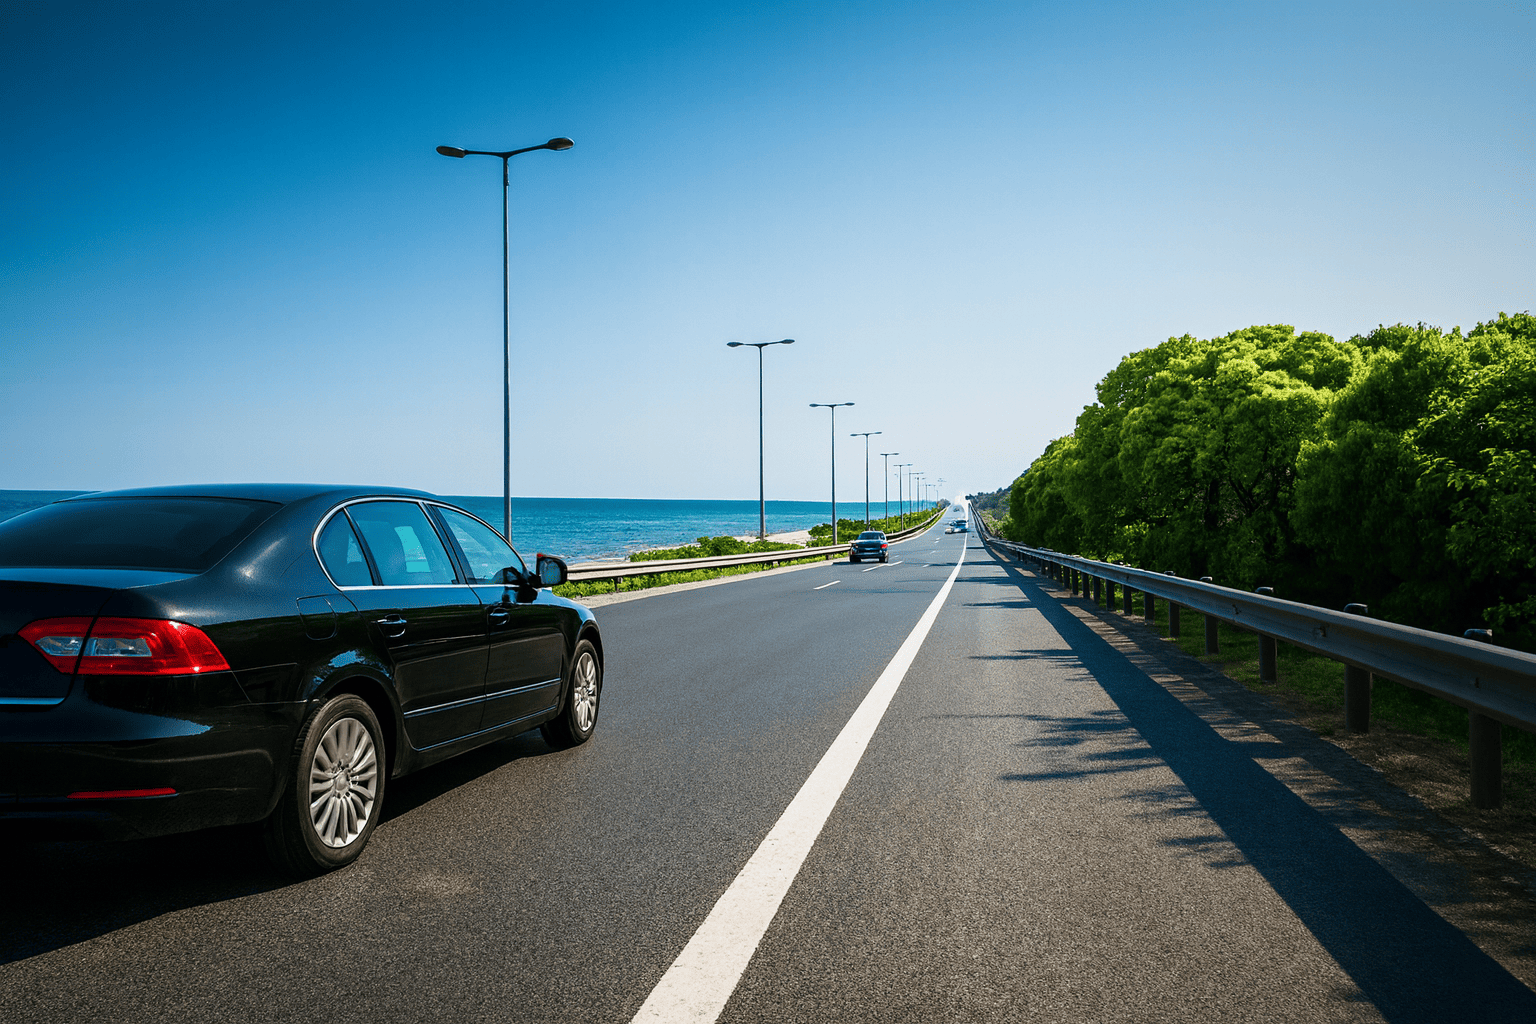
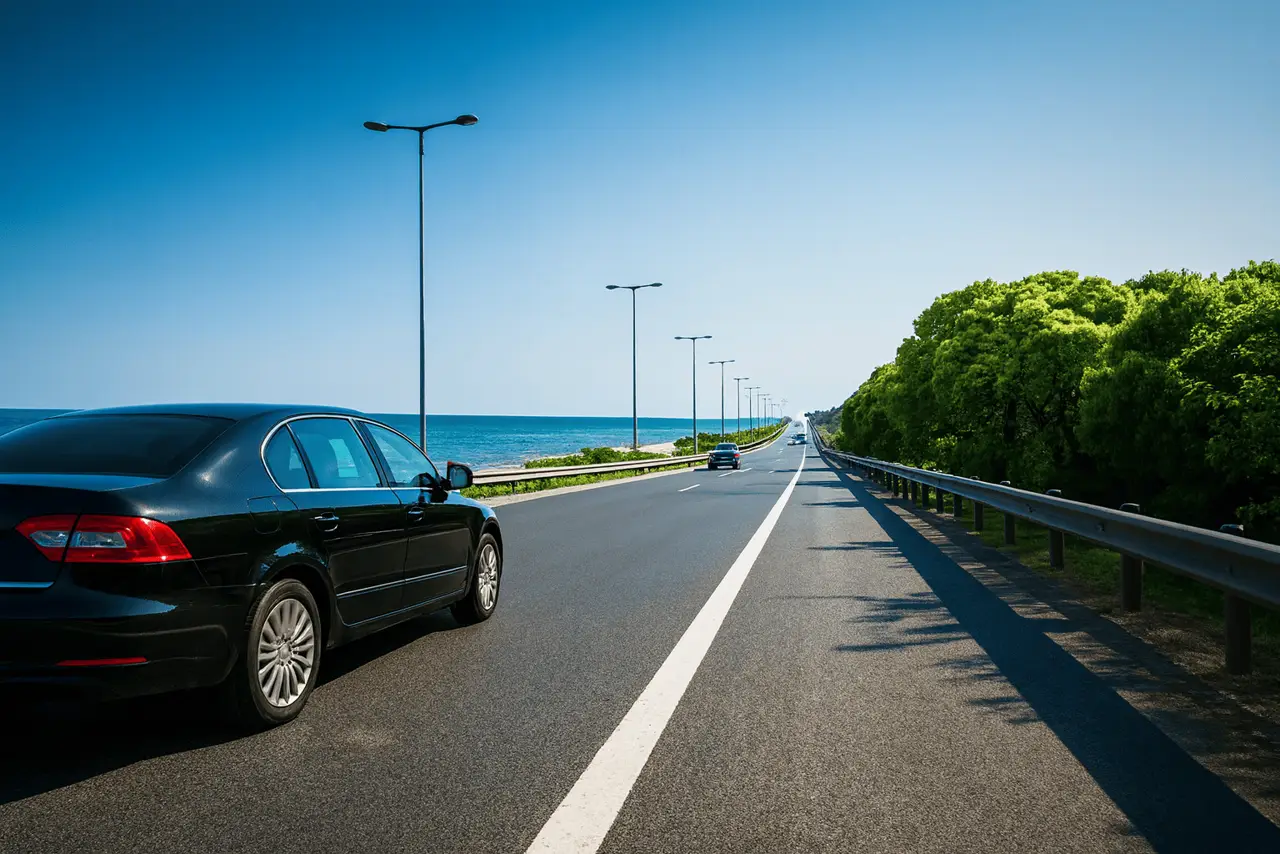
perf(images): recomprimir assets webp/png y lazy-load bajo el fold (home 3.4MB->1.7MB)

Changed region(s): [[0.9375, 0.3044, 1.0, 0.3958], [0.5312, 0.4871, 0.625, 0.548], [0.75, 0.3349, 0.8438, 0.3653]]

diff --git a/src/components/brand-slider/brand-slider.component.ts b/src/components/brand-slider/brand-slider.component.ts
@@ -19,13 +19,13 @@ import { MotionDirective } from '../../app/core/motion/motion.directive';
           @for(brand of brands(); track brand.name) {
             <div class="relative flex flex-col items-center justify-center w-24 h-10 md:w-32 md:h-14 group/brand cursor-pointer">
                <!-- Imagen Azul (Base) -->
-               <img [src]="'assets/imgs/slider/Azul/' + brand.file" 
+               <img [src]="'assets/imgs/slider/Azul/' + brand.file" loading="lazy" decoding="async" 
                     [alt]="brand.name"
                     class="absolute inset-0 w-full h-full object-contain transition-opacity duration-300 opacity-100 group-hover/brand:opacity-0"
                     [class]="brand.className || ''">
                
                <!-- Imagen Color (Hover) -->
-               <img [src]="'assets/imgs/slider/Color/' + brand.file" 
+               <img [src]="'assets/imgs/slider/Color/' + brand.file" loading="lazy" decoding="async" 
                     [alt]="brand.name + ' Color'"
                     class="absolute inset-0 w-full h-full object-contain transition-opacity duration-300 opacity-0 group-hover/brand:opacity-100"
                     [class]="brand.className || ''">
@@ -35,11 +35,11 @@ import { MotionDirective } from '../../app/core/motion/motion.directive';
           <!-- Set 2 (Duplicado para loop infinito) -->
           @for(brand of brands(); track brand.name + '_dup') {
             <div class="relative flex flex-col items-center justify-center w-24 h-10 md:w-32 md:h-14 group/brand cursor-pointer">
-               <img [src]="'assets/imgs/slider/Azul/' + brand.file" 
+               <img [src]="'assets/imgs/slider/Azul/' + brand.file" loading="lazy" decoding="async" 
                     [alt]="brand.name"
                     class="absolute inset-0 w-full h-full object-contain transition-opacity duration-300 opacity-100 group-hover/brand:opacity-0"
                     [class]="brand.className || ''">
-               <img [src]="'assets/imgs/slider/Color/' + brand.file" 
+               <img [src]="'assets/imgs/slider/Color/' + brand.file" loading="lazy" decoding="async" 
                     [alt]="brand.name + ' Color'"
                     class="absolute inset-0 w-full h-full object-contain transition-opacity duration-300 opacity-0 group-hover/brand:opacity-100"
                     [class]="brand.className || ''">
@@ -49,11 +49,11 @@ import { MotionDirective } from '../../app/core/motion/motion.directive';
           <!-- Set 3 (Triplicado para pantallas anchas) -->
           @for(brand of brands(); track brand.name + '_tri') {
             <div class="relative flex flex-col items-center justify-center w-24 h-10 md:w-32 md:h-14 group/brand cursor-pointer">
-               <img [src]="'assets/imgs/slider/Azul/' + brand.file" 
+               <img [src]="'assets/imgs/slider/Azul/' + brand.file" loading="lazy" decoding="async" 
                     [alt]="brand.name"
                     class="absolute inset-0 w-full h-full object-contain transition-opacity duration-300 opacity-100 group-hover/brand:opacity-0"
                     [class]="brand.className || ''">
-               <img [src]="'assets/imgs/slider/Color/' + brand.file" 
+               <img [src]="'assets/imgs/slider/Color/' + brand.file" loading="lazy" decoding="async" 
                     [alt]="brand.name + ' Color'"
                     class="absolute inset-0 w-full h-full object-contain transition-opacity duration-300 opacity-0 group-hover/brand:opacity-100"
                     [class]="brand.className || ''">
@@ -63,11 +63,11 @@ import { MotionDirective } from '../../app/core/motion/motion.directive';
            <!-- Set 4 (Cuadruplicado para pantallas ultra-anchas) -->
           @for(brand of brands(); track brand.name + '_quad') {
             <div class="relative flex flex-col items-center justify-center w-24 h-10 md:w-32 md:h-14 group/brand cursor-pointer">
-               <img [src]="'assets/imgs/slider/Azul/' + brand.file" 
+               <img [src]="'assets/imgs/slider/Azul/' + brand.file" loading="lazy" decoding="async" 
                     [alt]="brand.name"
                     class="absolute inset-0 w-full h-full object-contain transition-opacity duration-300 opacity-100 group-hover/brand:opacity-0"
                     [class]="brand.className || ''">
-               <img [src]="'assets/imgs/slider/Color/' + brand.file" 
+               <img [src]="'assets/imgs/slider/Color/' + brand.file" loading="lazy" decoding="async" 
                     [alt]="brand.name + ' Color'"
                     class="absolute inset-0 w-full h-full object-contain transition-opacity duration-300 opacity-0 group-hover/brand:opacity-100"
                     [class]="brand.className || ''">

diff --git a/src/components/vehicles4/vehicles4.component.html b/src/components/vehicles4/vehicles4.component.html
@@ -58,7 +58,7 @@
 
                     <!-- Full Background Image -->
                     <div class="absolute inset-0 w-full h-full bg-gray-200">
-                        <img [src]="service.imageUrl"
+                        <img [src]="service.imageUrl" loading="lazy" decoding="async"
                             [srcset]="service.imageUrl + ' 1x, ' + service.imageUrl.replace('low.png', '.png') + ' 2x'"
                             [alt]="service.title"
                             class="object-cover w-full h-full transition-transform duration-[2s] ease-out group-hover/card:scale-110">
@@ -223,7 +223,7 @@
                     class="group flex items-center gap-4 p-3 bg-slate-50 hover:bg-[#002B5B] rounded-2xl border border-slate-100 cursor-pointer transition-all duration-300 hover:scale-[1.02] hover:shadow-xl hover:shadow-blue-900/10">
                     <div
                         class="w-16 h-16 rounded-xl overflow-hidden bg-white flex-shrink-0 border border-slate-200 group-hover:border-transparent transition-colors">
-                        <img [src]="suggested.image_url" alt="" class="w-full h-full object-cover">
+                        <img [src]="suggested.image_url" alt="" loading="lazy" decoding="async" class="w-full h-full object-cover">
                     </div>
                     <div class="flex-1">
                         <h4

diff --git a/src/components/vehicles/vehicles.component.html b/src/components/vehicles/vehicles.component.html
@@ -47,7 +47,7 @@
 
           <!-- Image Area -->
           <div class="relative h-56 sm:h-56 md:h-40 w-full overflow-hidden bg-gray-50">
-            <img [src]="service.imageUrl" [alt]="service.title" class="object-cover object-bottom w-full h-full">
+            <img [src]="service.imageUrl" [alt]="service.title" loading="lazy" decoding="async" class="object-cover object-bottom w-full h-full">
             <!-- Overlay gradient -->
             <div
               class="absolute inset-0 bg-gradient-to-t to-transparent opacity-0 group-hover/card:opacity-100 transition-opacity duration-500"
@@ -249,7 +249,7 @@
           class="group flex items-center gap-4 p-3 bg-slate-50 hover:bg-[#002B5B] rounded-2xl border border-slate-100 cursor-pointer transition-all duration-300 hover:scale-[1.02] hover:shadow-xl hover:shadow-blue-900/10">
           <div
             class="w-16 h-16 rounded-xl overflow-hidden bg-white flex-shrink-0 border border-slate-200 group-hover:border-transparent transition-colors">
-            <img [src]="suggested.image_url" alt="" class="w-full h-full object-cover">
+            <img [src]="suggested.image_url" alt="" loading="lazy" decoding="async" class="w-full h-full object-cover">
           </div>
           <div class="flex-1">
             <h4

diff --git a/src/components/contact-promo/contact-promo.component.ts b/src/components/contact-promo/contact-promo.component.ts
@@ -224,7 +224,7 @@ export class CalendarComponent {
                   </div>
               </div>
               <div class="hidden lg:block w-7/12 h-[500px] relative rounded-[32px] overflow-hidden shadow-2xl group border border-white/5 animate-enter delay-200 order-1 lg:order-2">
-                  <img src="assets/imgs/servicios/form/fondo.webp" class="w-full h-full object-cover transition-transform duration-[2s] group-hover:scale-105 opacity-80 group-hover:opacity-100">
+                  <img src="assets/imgs/servicios/form/fondo.webp" loading="lazy" decoding="async" class="w-full h-full object-cover transition-transform duration-[2s] group-hover:scale-105 opacity-80 group-hover:opacity-100">
                   <div class="absolute inset-0 bg-gradient-to-t from-[#050914] via-transparent to-transparent opacity-90"></div>
                   <div class="absolute top-8 right-8 bg-black/50 backdrop-blur-md border border-[#FF6F61]/30 text-[#FF6F61] px-4 py-1.5 rounded-full font-bold tracking-wider text-[10px] shadow-[0_0_15px_rgba(255,111,97,0.2)]">MARCAS PREMIUM</div>
               </div>

diff --git a/src/components/hero/hero.component.html b/src/components/hero/hero.component.html
@@ -1,9 +1,9 @@
 <section #heroSection class="relative w-full overflow-hidden h-[86vh] min-h-[560px] flex items-center">
   <!-- Background image with GSAP parallax -->
   <div #heroBg class="absolute inset-x-0 -top-[12%] -bottom-[12%] z-0 will-change-transform">
-    <img src="/assets/imgs/banners/banner1.webp" alt="Ocean Drive Car Rental — flota premium en Cartagena de Indias"
+    <img src="/assets/imgs/banners/banner1.webp" fetchpriority="high" decoding="async" alt="Ocean Drive Car Rental — flota premium en Cartagena de Indias"
          class="hidden md:block w-full h-full object-cover" />
-    <img src="assets/imgs/banners/banner1mb.webp" alt="Ocean Drive Car Rental — flota premium en Cartagena de Indias"
+    <img src="assets/imgs/banners/banner1mb.webp" fetchpriority="high" decoding="async" alt="Ocean Drive Car Rental — flota premium en Cartagena de Indias"
          class="block md:hidden w-full h-full object-cover" />
   </div>
 

diff --git a/src/components/features/features.component.html b/src/components/features/features.component.html
@@ -15,7 +15,7 @@
                     <div
                         class="absolute inset-0 bg-gradient-to-r from-[#002B5B] via-[#B3E5FF] to-[#FF6F61] rounded-2xl opacity-0 group-hover/image:opacity-20 blur-xl transition-opacity duration-700">
                     </div>
-                    <img src="assets/imgs/features/fondo.webp" alt="Premium Silver Car"
+                    <img src="assets/imgs/features/fondo.webp" alt="Premium Silver Car" loading="lazy" decoding="async"
                         class="w-full h-full object-cover object-bottom pointer-events-none drop-shadow-2xl rounded-xl transition-all duration-500 group-hover/image:drop-shadow-[0_20px_40px_rgba(0,43,91,0.3)] group-hover/image:scale-[1.02]">
                 </div>
             </div>

diff --git a/src/components/experience/experience.component.html b/src/components/experience/experience.component.html
@@ -29,7 +29,7 @@
       <div class="hidden lg:block lg:col-span-5 relative group perspective-1000 order-2 lg:order-1">
         <div
           class="relative h-[300px] rounded-2xl overflow-hidden shadow-[0_25px_50px_-12px_rgba(0,0,0,0.5)] border border-white/10 transform transition-transform duration-[1.5s] ease-apple group-hover:rotate-y-2 group-hover:scale-[1.02]">
-          <img src="assets/imgs/nosotros/fondo.webp" alt="Experience Car"
+          <img src="assets/imgs/nosotros/fondo.webp" alt="Experience Car" loading="lazy" decoding="async"
             class="w-full h-full object-cover transition-transform duration-[2s] ease-out group-hover:scale-110">
           <!-- Glass sheen effect -->
           <div

diff --git a/index.html b/index.html
@@ -115,7 +115,7 @@
       // 2. Crear nuevo elemento link
       var link = document.createElement('link');
       link.rel = 'icon';
-      link.type = 'image/png';
+      link.type = 'image/webp';
       document.head.appendChild(link);
 
       // 3. Definir Assets (Corregido: Negativo es Azul, Positivo es Blanco)
@@ -133,8 +133,7 @@
           // Claro -> Azul
           var selectedIcon = isDark ? whiteIcon : blueIcon;
 
-          // Cache busting para forzar actualización
-          link.href = selectedIcon + '?v=' + new Date().getTime();
+          link.href = selectedIcon;
 
         } catch (e) {
           link.href = blueIcon; // Fallback a azul

diff --git a/src/app/pages/login/login.component.ts b/src/app/pages/login/login.component.ts
@@ -257,7 +257,7 @@ import { LanguageService } from '../../../services/language.service';
         <aside class="hidden lg:block w-1/2 relative bg-gray-900 overflow-hidden">
             <!-- Background Image -->
             <div class="absolute inset-0 transition-transform duration-[20s] hover:scale-105">
-                <img src="assets/imgs/auth/login-split.png" alt="Luxury Car Detail" class="w-full h-full object-cover">
+                <img src="assets/imgs/auth/login-split.webp" alt="Luxury Car Detail" class="w-full h-full object-cover">
             </div>
             
             <!-- Overlay Gradients -->

diff --git a/src/app/pages/register/register.component.ts b/src/app/pages/register/register.component.ts
@@ -254,7 +254,7 @@ import { LanguageService } from '../../../services/language.service';
         <aside class="hidden lg:block w-1/2 relative bg-gray-900 overflow-hidden">
             <!-- Background Image -->
             <div class="absolute inset-0 transition-transform duration-[25s] hover:scale-110">
-                <img src="assets/imgs/auth/login-split.png" alt="Detail" class="w-full h-full object-cover">
+                <img src="assets/imgs/auth/login-split.webp" alt="Detail" class="w-full h-full object-cover">
             </div>
             
             <!-- Gradient Overlay -->

diff --git a/src/components/hero6/hero6.component.html b/src/components/hero6/hero6.component.html
@@ -1,7 +1,7 @@
 <section class="relative w-full overflow-hidden h-full flex items-center">
     <!-- Background Image with ken burns effect -->
     <div class="absolute inset-0 z-0 animate-hero-ken-burns">
-        <img src="assets/imgs/servicios/fondo.webp" alt="Reservas Background"
+        <img src="assets/imgs/servicios/fondo.webp" alt="Reservas Background" loading="lazy" decoding="async"
             class="w-full h-full object-cover object-center">
     </div>
 

diff --git a/src/components/hero2/hero2.component.html b/src/components/hero2/hero2.component.html
@@ -1,7 +1,7 @@
 <section class="relative w-full overflow-hidden h-[25vh] md:h-[55vh] flex items-center">
     <!-- Background Image -->
     <div class="absolute inset-0 z-0">
-        <img src="assets/imgs/nosotros/hero-nosotros.webp" alt="Nosotros Background"
+        <img src="assets/imgs/nosotros/hero-nosotros.webp" alt="Nosotros Background" loading="lazy" decoding="async"
             class="w-full h-full object-cover object-center">
     </div>
 
